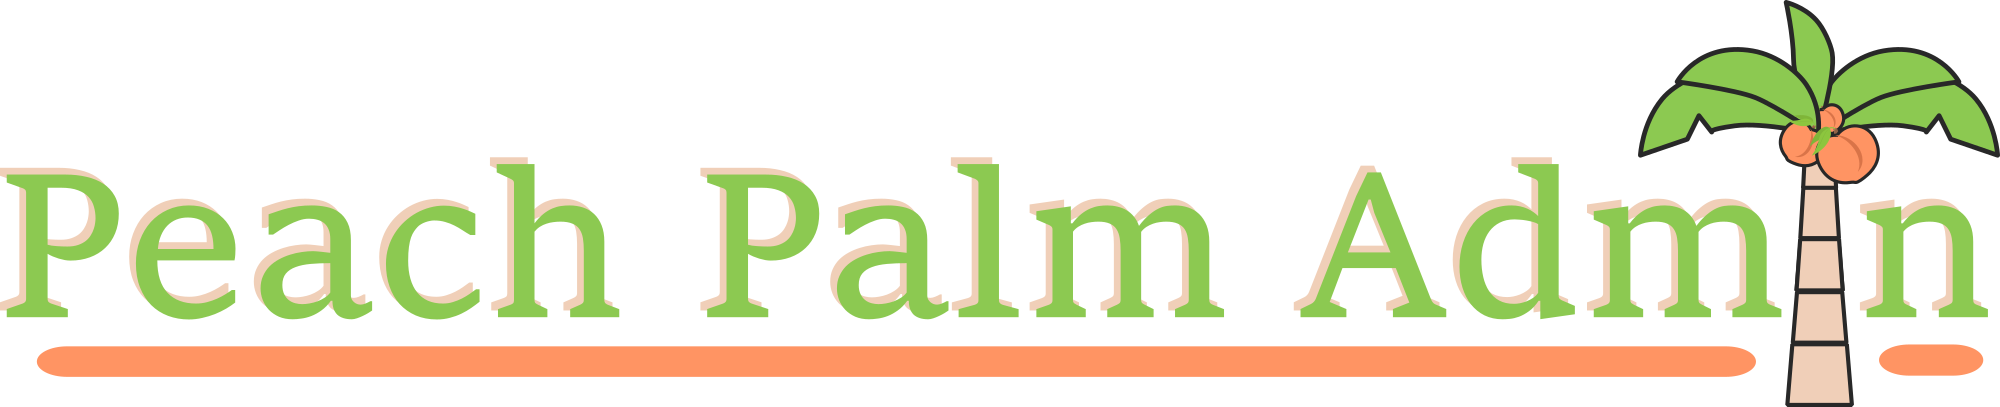
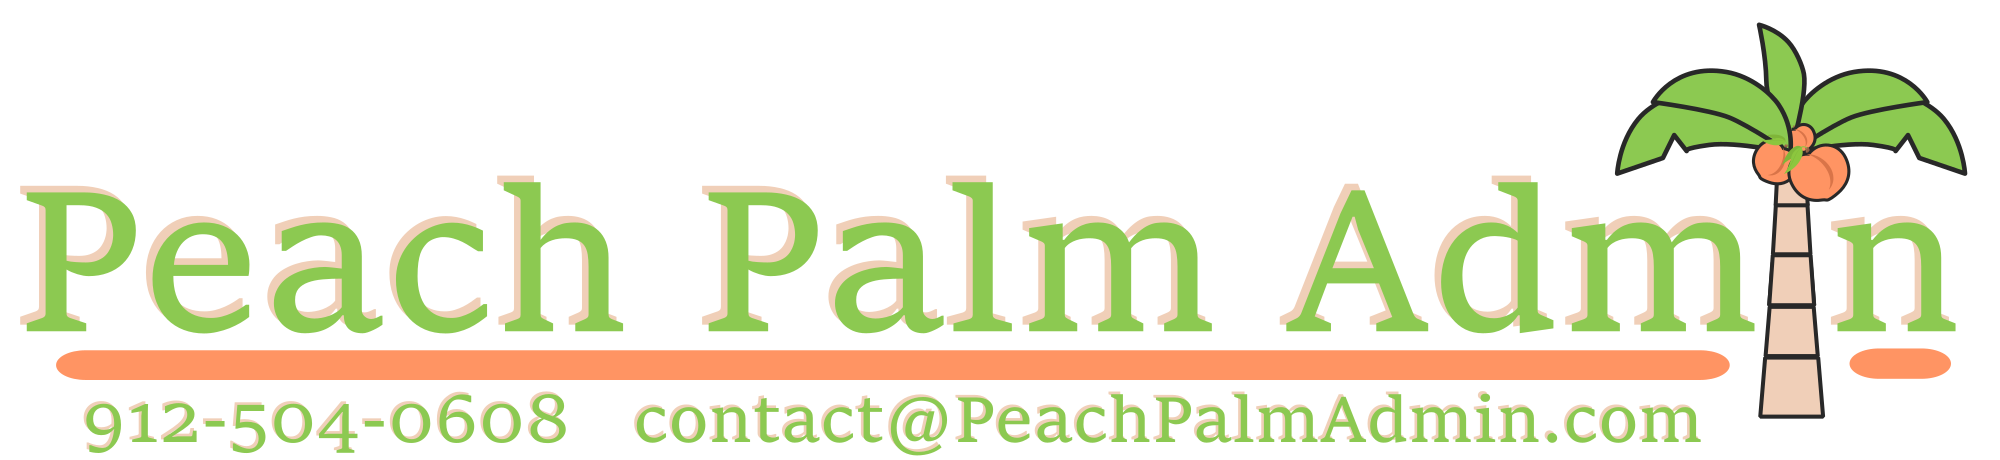
mv phone & email to header. should close #13

diff --git a/docs/_includes/header.html b/docs/_includes/header.html
@@ -4,7 +4,7 @@
     {%- assign default_paths = site.pages | map: "path" -%}
     {%- assign page_paths = site.header_pages | default: default_paths -%}
     {%- assign titles_size = site.pages | map: 'title' | join: '' | size -%}
-    
+
     {%- if site.header_img_path != '' -%}  <!-- TODO: also handle if variable isn't set -->
       <!-- header image if set -->
       <a class="site-title" rel="author" href="{{ "/" | relative_url }}"><img src="{{ site.header_img_path | relative_url }}"></a>
@@ -12,7 +12,7 @@
       <!-- use text title if no header image -->
       <a class="site-title" rel="author" href="{{ "/" | relative_url }}">{{ site.title | escape }}</a>
     {%- endif -%}
-    
+
     {%- if titles_size > 0 -%}
       <nav class="site-nav">
         <input type="checkbox" id="nav-trigger" class="nav-trigger" />
@@ -23,7 +23,7 @@
             </svg>
           </span>
         </label>
-        
+
         <!-- NOTE: put text for above the right nav here if desired -->
 
         <div class="trigger">
@@ -36,9 +36,5 @@
         </div>
       </nav>
     {%- endif -%}
-    <table><tr>
-         <td>912 504 0608<td>
-         <td>contact@PeachPalmAdmin.com</td>
-    </tr></table>
   </div>
 </header>
